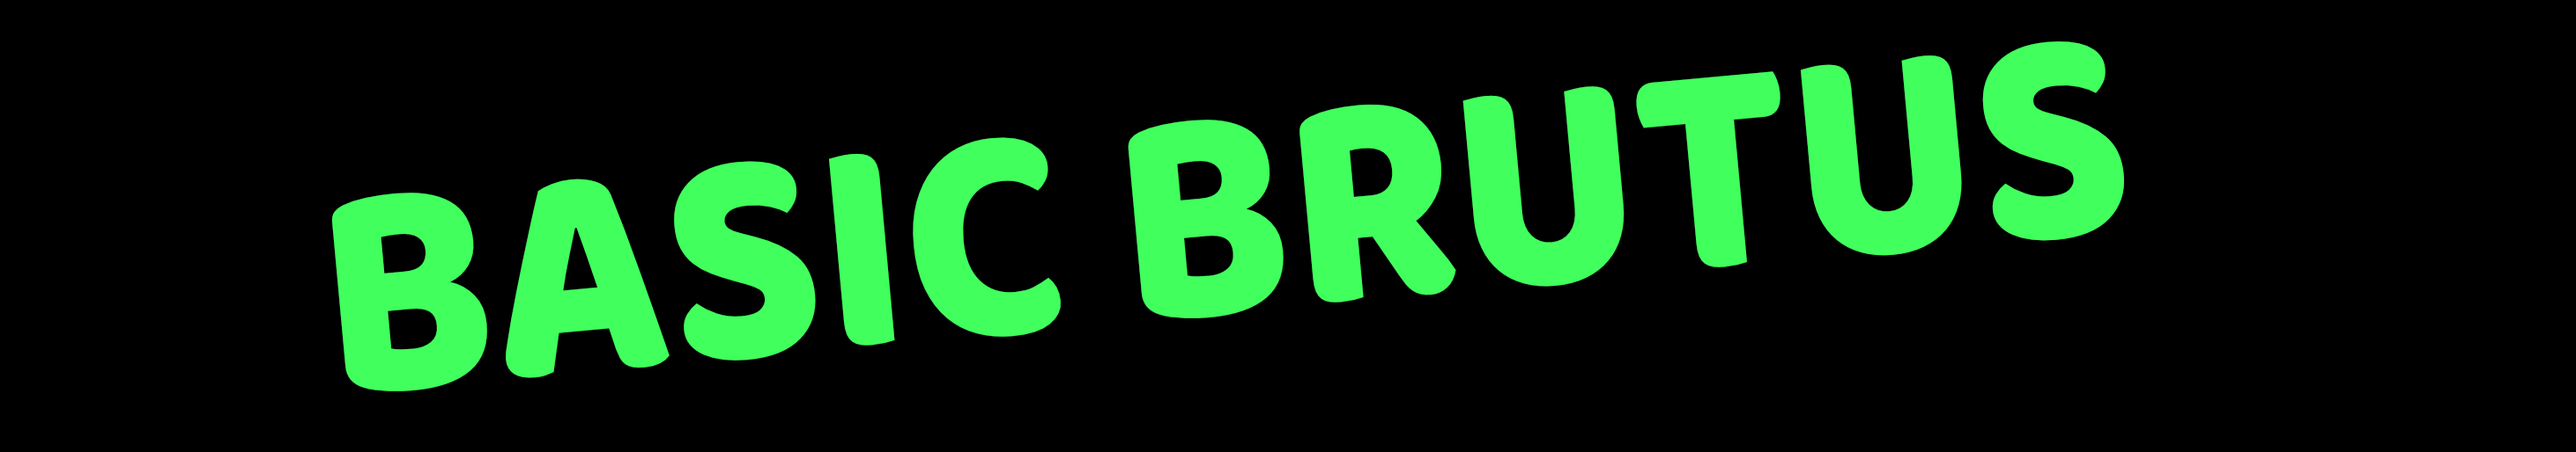
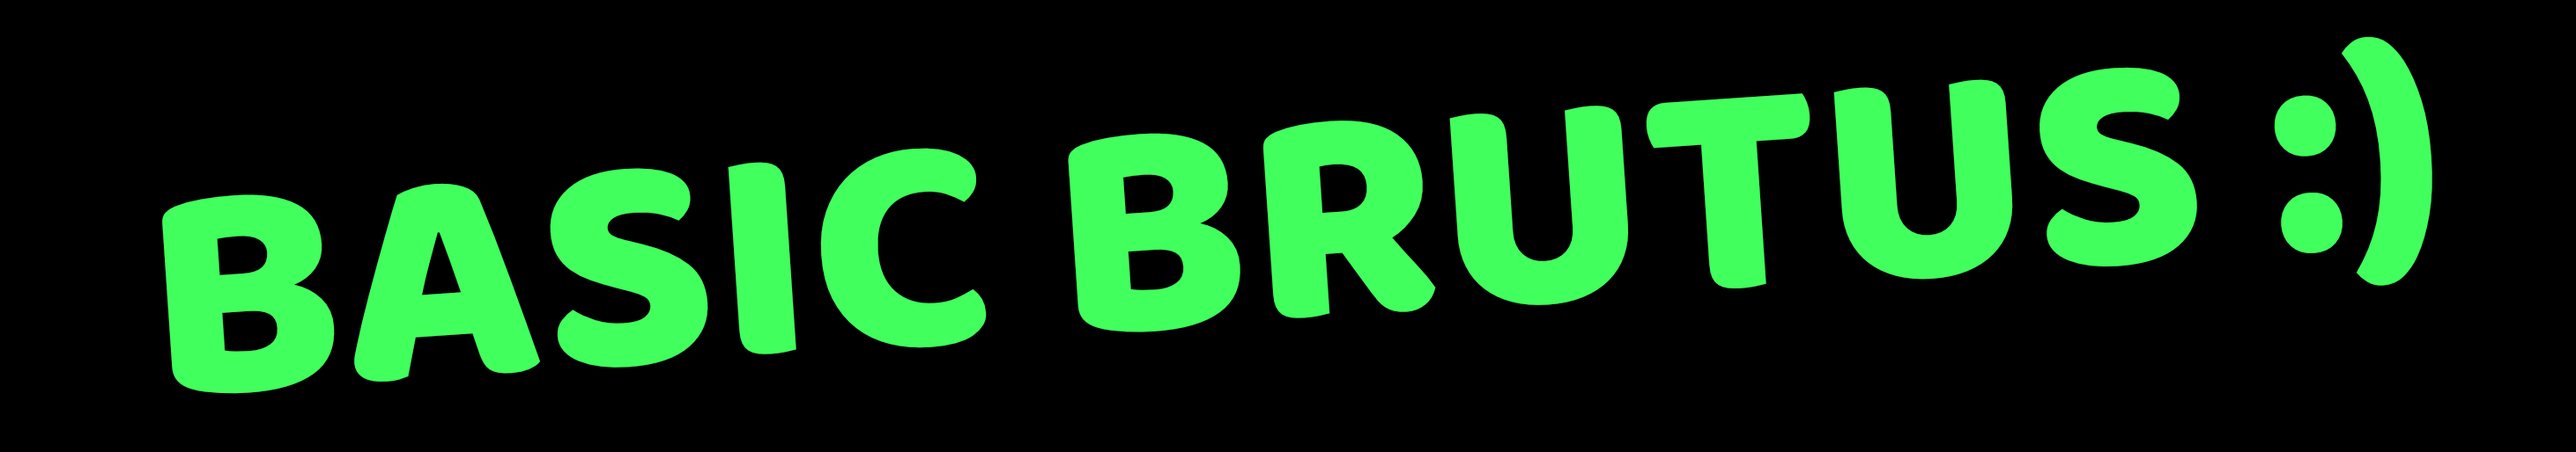
doc: update

Changed region(s): [[0.0622, 0.0623, 0.9648, 0.8716]]

diff --git a/README.md b/README.md
@@ -1,5 +1,3 @@
-# Basic Brutus :)
-
 ![alt basic brutus](./header.jpg)
 
 # What is the project «Basic Brutus»?
